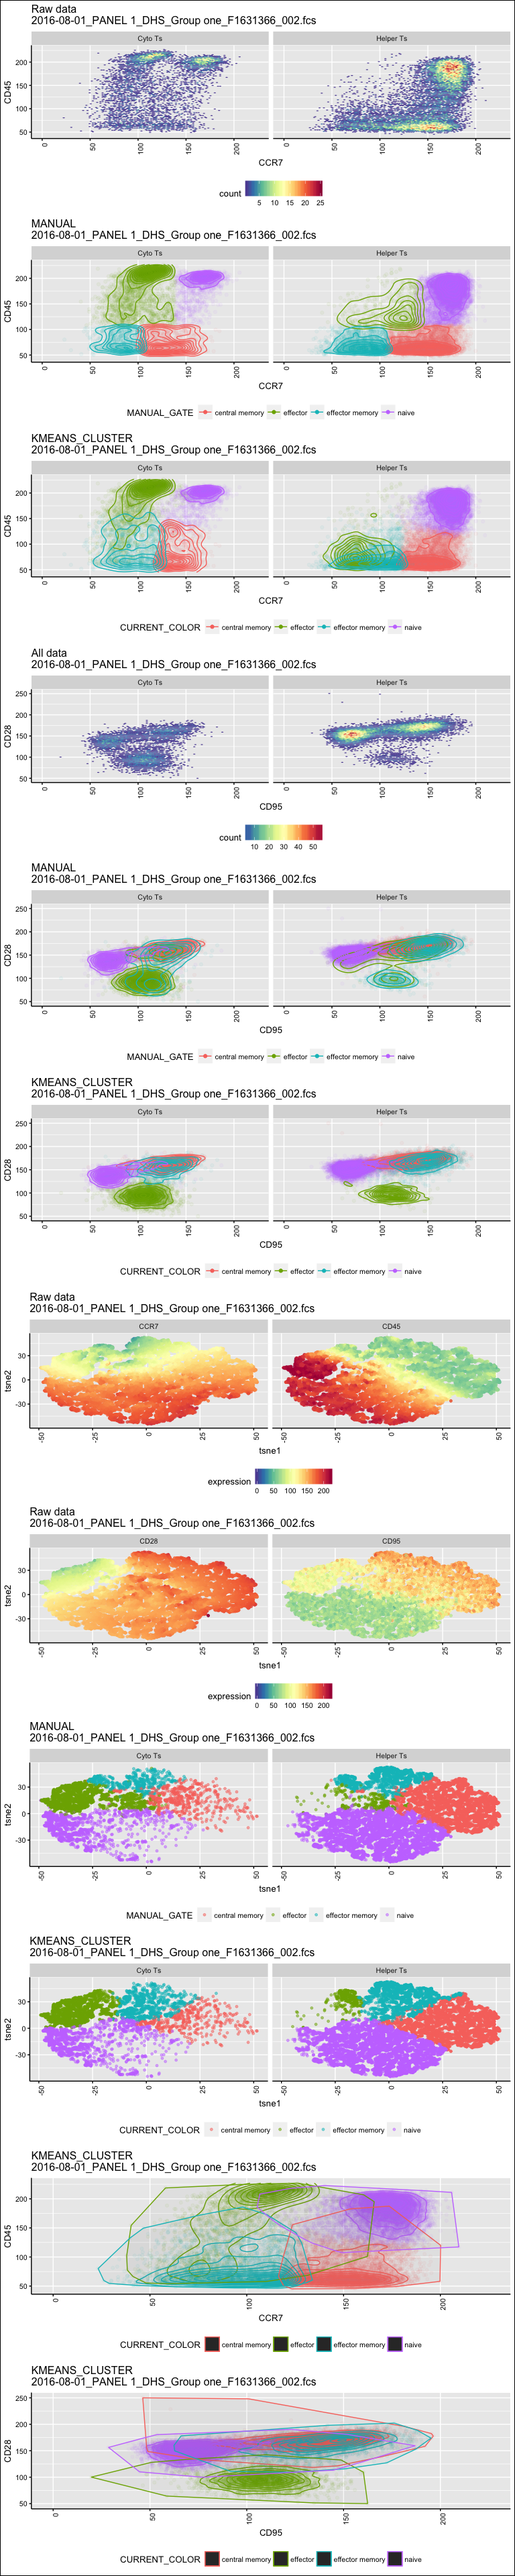
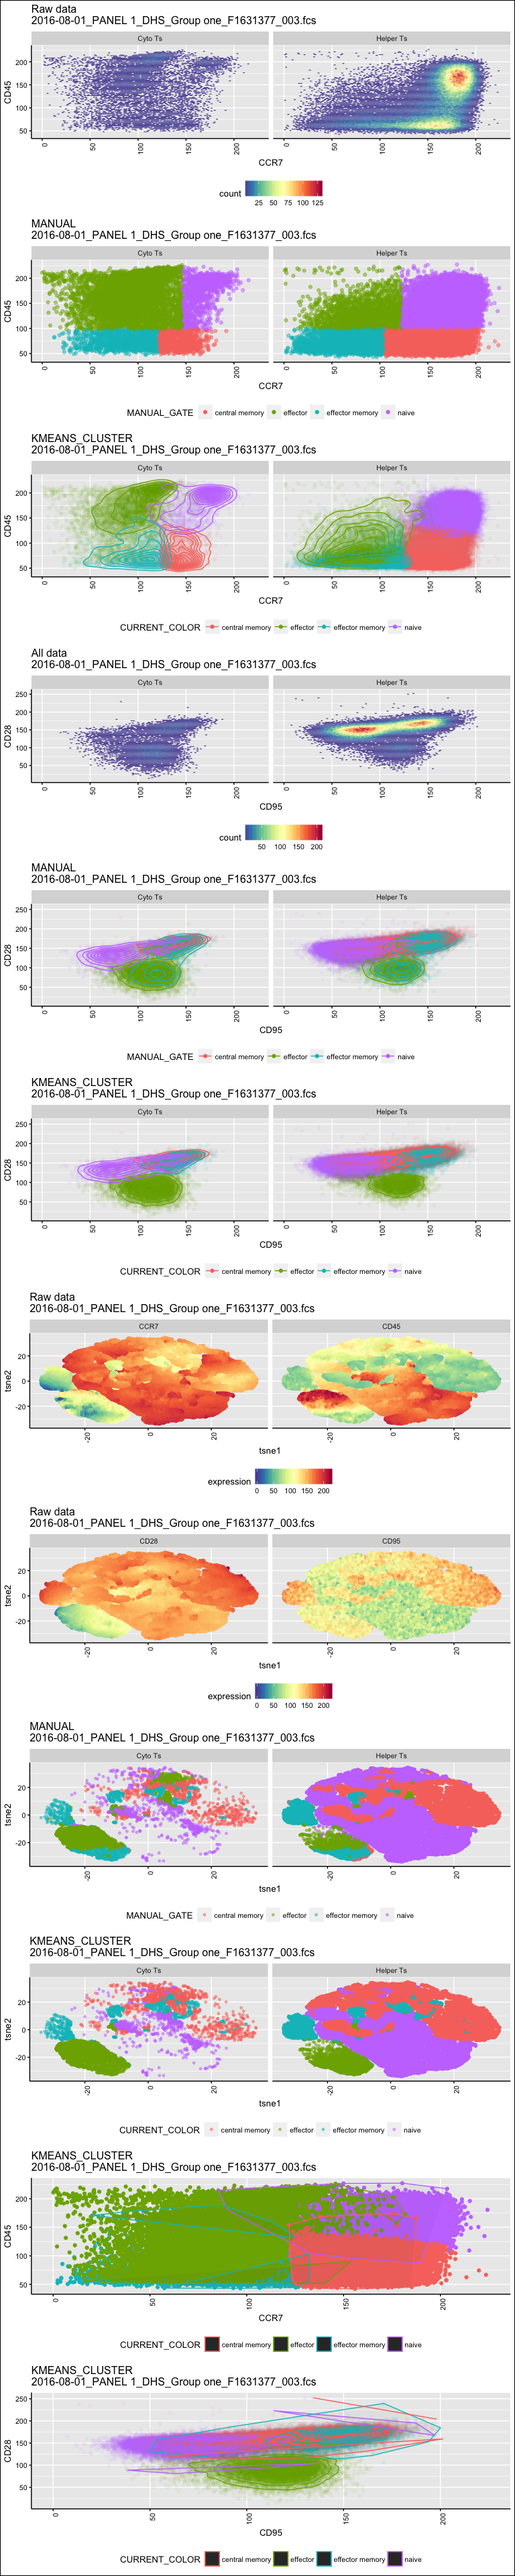
effector overcalling may partially be visual trick

diff --git a/explore/openCyto/TcellSubs/TestKmeans_combo_NoCD95_expression_gateProjection_v7.html b/explore/openCyto/TcellSubs/TestKmeans_combo_NoCD95_expression_gateProjection_v7.html
@@ -124,56 +124,16 @@ $(document).ready(function () {
 
 
 <pre><code>## [1] &quot;Found 37 wsps&quot;</code></pre>
-<pre><code>## [1] &quot;loading /Volumes/Beta/data/flow/testTcellSubFCS_Results/2016-08-01_PANEL 1_DHS_Group one_F1631366_002.fcsresults.RData&quot;
-## [1] &quot;Plotting 2016-08-01_PANEL 1_DHS_Group one_F1631366_002.fcs&quot;
-## [1] &quot;EC_ZF example =  TRUE&quot;
-## [1] &quot;Sample number 0&quot;</code></pre>
-<p><img src="TestKmeans_combo_NoCD95_expression_gateProjection_v7_files/figure-html/func-1.png" /><!-- --></p>
 <pre><code>## [1] &quot;loading /Volumes/Beta/data/flow/testTcellSubFCS_Results/2016-08-01_PANEL 1_DHS_Group one_F1631377_003.fcsresults.RData&quot;
 ## [1] &quot;Plotting 2016-08-01_PANEL 1_DHS_Group one_F1631377_003.fcs&quot;
 ## [1] &quot;EC_ZF example =  TRUE&quot;
-## [1] &quot;Sample number 1&quot;</code></pre>
-<p><img src="TestKmeans_combo_NoCD95_expression_gateProjection_v7_files/figure-html/func-2.png" /><!-- --></p>
+## [1] &quot;Sample number 0&quot;</code></pre>
+<p><img src="TestKmeans_combo_NoCD95_expression_gateProjection_v7_files/figure-html/func-1.png" /><!-- --></p>
 <pre><code>## [1] &quot;loading /Volumes/Beta/data/flow/testTcellSubFCS_Results/2016-08-01_PANEL 1_DHS_Group two_F1636830_032.fcsresults.RData&quot;
 ## [1] &quot;Plotting 2016-08-01_PANEL 1_DHS_Group two_F1636830_032.fcs&quot;
 ## [1] &quot;EC_ZF example =  TRUE&quot;
-## [1] &quot;Sample number 2&quot;</code></pre>
-<p><img src="TestKmeans_combo_NoCD95_expression_gateProjection_v7_files/figure-html/func-3.png" /><!-- --></p>
-<pre><code>## [1] &quot;loading /Volumes/Beta/data/flow/testTcellSubFCS_Results/2016-08-01_PANEL 1_DHS_Group one_F1636775_013.fcsresults.RData&quot;
-## [1] &quot;Plotting 2016-08-01_PANEL 1_DHS_Group one_F1636775_013.fcs&quot;
-## [1] &quot;EC_ZF example =  TRUE&quot;
-## [1] &quot;Sample number 3&quot;</code></pre>
-<p><img src="TestKmeans_combo_NoCD95_expression_gateProjection_v7_files/figure-html/func-4.png" /><!-- --></p>
-<pre><code>## [1] &quot;loading /Volumes/Beta/data/flow/testTcellSubFCS_Results/2016-08-01_PANEL 1_DHS_Group one_F1636847_014.fcsresults.RData&quot;
-## [1] &quot;Plotting 2016-08-01_PANEL 1_DHS_Group one_F1636847_014.fcs&quot;
-## [1] &quot;EC_ZF example =  TRUE&quot;
-## [1] &quot;Sample number 4&quot;</code></pre>
-<p><img src="TestKmeans_combo_NoCD95_expression_gateProjection_v7_files/figure-html/func-5.png" /><!-- --></p>
-<pre><code>## [1] &quot;loading /Volumes/Beta/data/flow/testTcellSubFCS_Results/2016-08-01_PANEL 1_DHS_Group one_F1636851_001.fcsresults.RData&quot;
-## [1] &quot;Plotting 2016-08-01_PANEL 1_DHS_Group one_F1636851_001.fcs&quot;
-## [1] &quot;EC_ZF example =  TRUE&quot;
-## [1] &quot;Sample number 5&quot;</code></pre>
-<p><img src="TestKmeans_combo_NoCD95_expression_gateProjection_v7_files/figure-html/func-6.png" /><!-- --></p>
-<pre><code>## [1] &quot;loading /Volumes/Beta/data/flow/testTcellSubFCS_Results/2016-08-01_PANEL 1_DHS_Group one_F1636533_004.fcsresults.RData&quot;
-## [1] &quot;Plotting 2016-08-01_PANEL 1_DHS_Group one_F1636533_004.fcs&quot;
-## [1] &quot;EC_ZF example =  TRUE&quot;
-## [1] &quot;Sample number 6&quot;</code></pre>
-<p><img src="TestKmeans_combo_NoCD95_expression_gateProjection_v7_files/figure-html/func-7.png" /><!-- --></p>
-<pre><code>## [1] &quot;loading /Volumes/Beta/data/flow/testTcellSubFCS_Results/2016-08-01_PANEL 1_DHS_Group one_F1636850_009.fcsresults.RData&quot;
-## [1] &quot;Plotting 2016-08-01_PANEL 1_DHS_Group one_F1636850_009.fcs&quot;
-## [1] &quot;EC_ZF example =  TRUE&quot;
-## [1] &quot;Sample number 7&quot;</code></pre>
-<p><img src="TestKmeans_combo_NoCD95_expression_gateProjection_v7_files/figure-html/func-8.png" /><!-- --></p>
-<pre><code>## [1] &quot;loading /Volumes/Beta/data/flow/testTcellSubFCS_Results/2016-08-01_PANEL 1_DHS_Group two_F1636774_030.fcsresults.RData&quot;
-## [1] &quot;Plotting 2016-08-01_PANEL 1_DHS_Group two_F1636774_030.fcs&quot;
-## [1] &quot;EC_ZF example =  TRUE&quot;
-## [1] &quot;Sample number 8&quot;</code></pre>
-<p><img src="TestKmeans_combo_NoCD95_expression_gateProjection_v7_files/figure-html/func-9.png" /><!-- --></p>
-<pre><code>## [1] &quot;loading /Volumes/Beta/data/flow/testTcellSubFCS_Results/2016-08-01_PANEL 1_DHS_Group one_F1636819_011.fcsresults.RData&quot;
-## [1] &quot;Plotting 2016-08-01_PANEL 1_DHS_Group one_F1636819_011.fcs&quot;
-## [1] &quot;EC_ZF example =  TRUE&quot;
-## [1] &quot;Sample number 9&quot;</code></pre>
-<p><img src="TestKmeans_combo_NoCD95_expression_gateProjection_v7_files/figure-html/func-10.png" /><!-- --></p>
+## [1] &quot;Sample number 1&quot;</code></pre>
+<p><img src="TestKmeans_combo_NoCD95_expression_gateProjection_v7_files/figure-html/func-2.png" /><!-- --></p>
 
 
 

diff --git a/explore/openCyto/TcellSubs/improves.md b/explore/openCyto/TcellSubs/improves.md
@@ -1,0 +1,27 @@
+1. Effector separately k vs 2/3 on cd 95 v 28, 3 v 4 on all.
+
+
+2. Try helper Ts separately.
+
+
+
+
+
+1636830
+= effector % of 
+
+            central memory effector effector memory naive
+  Cyto Ts             1898     7527            1475  5183
+  Helper Ts          23762      453            8808 22672
+  
+  
+  0.008200282 	0.820028239
+  
+             central memory effector effector memory naive
+  Cyto Ts              549     2816            1803  1207
+  Helper Ts          12661       33            3952  5566
+  
+  0.001487894	  0.148789395
+  
+  
+  
